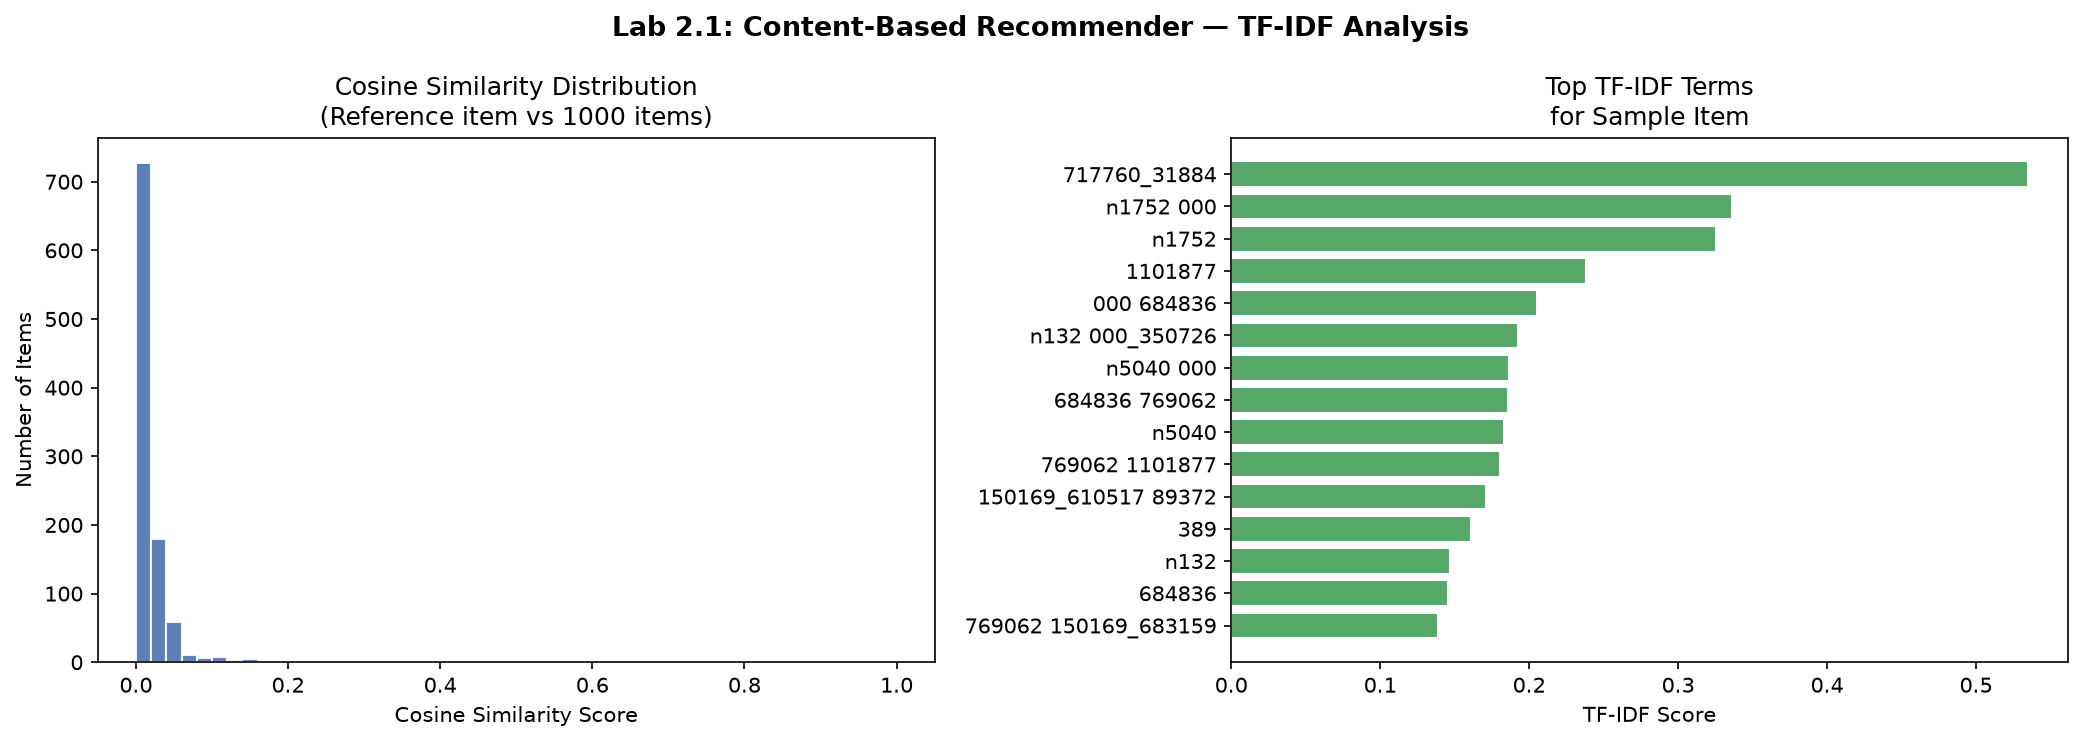
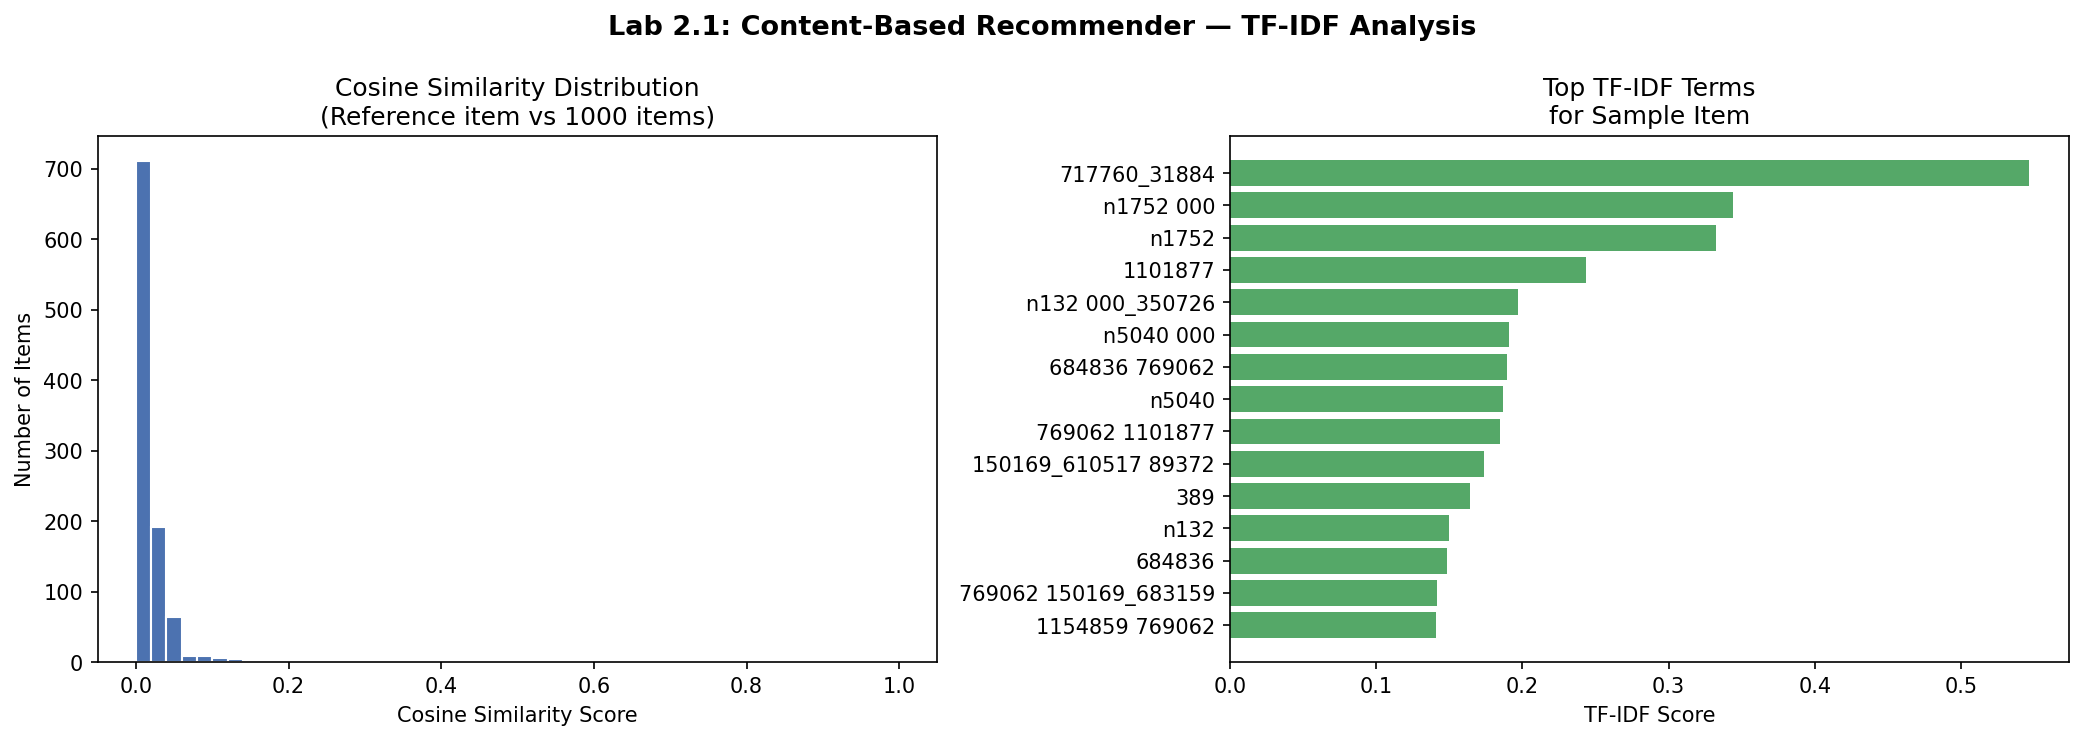
Lab 2.1: refresh script & output

diff --git a/content_based_recommender.py b/content_based_recommender.py
@@ -6,6 +6,8 @@
 # Saras AI Institute | Build Predictive Models & Modern Recommenders
 # =============================================================================
 
+import os
+import pickle
 import pandas as pd
 import numpy as np
 import matplotlib.pyplot as plt
@@ -14,6 +16,7 @@ from sklearn.metrics.pairwise import cosine_similarity
 from sklearn.preprocessing import normalize
 import scipy.sparse as sp
 import warnings
+
 warnings.filterwarnings('ignore')
 
 print("=" * 60)
@@ -33,9 +36,9 @@ props2 = pd.read_csv("data/item_properties_part2.csv")
 # TODO: Combine props1 and props2 vertically into a unified dataframe named 'props'
 props = pd.concat([props1, props2], ignore_index=True)
 
-print(f"    Total property records : {len(props) if props is not None else 0:,}")
-print(f"    Unique items           : {props['itemid'].nunique() if props is not None else 0:,}")
-print(f"    Columns                : {list(props.columns) if props is not None else []}")
+print(f"    Total property records : {len(props):,}")
+print(f"    Unique items           : {props['itemid'].nunique():,}")
+print(f"    Columns                : {list(props.columns)}")
 
 
 # ---------------------------------------------------------------------------
@@ -66,14 +69,14 @@ props_latest['value_token'] = (
 item_docs = (
     props_latest
     .groupby('itemid')['value_token']
-    .apply(lambda values: ' '.join(token for token in values if token.strip()))
+    .apply(lambda values: ' '.join(token for token in values if token))
     .reset_index(name='document')
 )
 
-# Remove items with an empty document, since TF-IDF cannot learn from them.
+# Remove any items which may have no usable property-value tokens
 item_docs = item_docs[item_docs['document'].str.strip() != ''].reset_index(drop=True)
 
-print(f"    Items with documents   : {len(item_docs) if item_docs is not None else 0:,}")
+print(f"    Items with documents   : {len(item_docs):,}")
 
 
 # ---------------------------------------------------------------------------
@@ -97,8 +100,8 @@ tfidf_matrix = vectorizer.fit_transform(item_docs['document'])
 # TODO: Extract the raw array of unique item IDs from item_docs['itemid'] for index-to-ID mappings
 item_ids = item_docs['itemid'].values
 
-print(f"    TF-IDF matrix shape    : {tfidf_matrix.shape if tfidf_matrix is not None else 'N/A'}")
-print(f"    Vocabulary size        : {len(vectorizer.vocabulary_):,} terms" if vectorizer is not None else "N/A")
+print(f"    TF-IDF matrix shape    : {tfidf_matrix.shape}")
+print(f"    Vocabulary size        : {len(vectorizer.vocabulary_):,} terms")
 
 
 # ---------------------------------------------------------------------------
@@ -111,9 +114,10 @@ def get_similar_items(item_id, tfidf_matrix, item_ids, top_k=10):
     Given an item_id, return the top_k most similar items based on TF-IDF cosine similarity.
     Returns a pandas DataFrame containing 'item_id' and 'similarity' columns.
     """
+
     # TODO: Verify if item_id exists in our catalog array (item_ids). If not, print warning and return empty DataFrame.
     if item_id not in item_ids:
-        print(f"    Warning: Item ID {item_id} is not available in the metadata catalog.")
+        print(f"    Warning: Item ID {item_id} was not found in the catalog.")
         return pd.DataFrame(columns=['item_id', 'similarity'])
 
     # TODO: Extract the exact row coordinate index matching the query item_id inside your item_ids list
@@ -144,8 +148,10 @@ def get_similar_items(item_id, tfidf_matrix, item_ids, top_k=10):
 # ---------------------------------------------------------------------------
 print("\n[5] Testing content-based recommender...")
 
-if item_ids is not None and tfidf_matrix is not None:
-    sample_item = item_ids[100]
+if len(item_ids) > 0 and tfidf_matrix is not None:
+    sample_index = min(100, len(item_ids) - 1)
+    sample_item = item_ids[sample_index]
+
     print(f"    Query item ID: {sample_item}")
 
     # TODO: Call your get_similar_items function to find the top 10 matches for sample_item
@@ -156,7 +162,7 @@ if item_ids is not None and tfidf_matrix is not None:
         top_k=10
     )
 
-    print(recommendations.to_string(index=False) if recommendations is not None else "    Not Implemented")
+    print(recommendations.to_string(index=False))
 
 
 # ---------------------------------------------------------------------------
@@ -168,14 +174,12 @@ events = pd.read_csv("data/events.csv")
 
 # TODO: Filter events down to 'transaction' occurrences only and pull out ['visitorid', 'itemid']
 purchases = (
-    events[events['event'] == 'transaction']
-    .sort_values('timestamp')
-    [['visitorid', 'itemid']]
+    events[events['event'] == 'transaction'][['visitorid', 'itemid', 'timestamp']]
+    .sort_values(['visitorid', 'timestamp'])
     .copy()
 )
 
-if purchases is not None:
-    purchases.columns = ['user_id', 'item_id']
+purchases.columns = ['user_id', 'item_id', 'timestamp']
 
 # TODO: Isolate sequential multi-purchase records by keeping users with 2 or more historical purchases
 multi_buyers = purchases[
@@ -186,7 +190,7 @@ multi_buyers = purchases[
 hits_at_10 = 0
 total_eval = 0
 
-if multi_buyers is not None:
+if len(multi_buyers) > 0:
     eval_users = multi_buyers['user_id'].unique()[:500]
 
     for user in eval_users:
@@ -194,6 +198,7 @@ if multi_buyers is not None:
 
         # Filter out user interactions that don't exist in our item metadata catalog boundaries
         catalog_items = [i for i in user_items if i in item_ids]
+
         if len(catalog_items) < 2:
             continue
 
@@ -237,6 +242,8 @@ cb_results = {
 # ---------------------------------------------------------------------------
 print("\n[7] Visualizing similarity distribution...")
 
+os.makedirs("output", exist_ok=True)
+
 # --- Plotting Baseline Profiles ---
 fig, axes = plt.subplots(1, 2, figsize=(14, 5))
 fig.suptitle(
@@ -245,23 +252,23 @@ fig.suptitle(
     fontweight='bold'
 )
 
-# TODO: Render a histogram on axes[0] illustrating raw cosine similarities calculated from an item against the catalog array
-# Hint: Use axes[0].hist(all_sims, bins=50)
-reference_item = item_ids[100]
-reference_idx = np.where(item_ids == reference_item)[0][0]
+sample_index = min(100, len(item_ids) - 1)
+sample_vector = tfidf_matrix[sample_index]
 
-comparison_size = min(1000, len(item_ids))
+# Limit to 1,000 catalog items for the distribution chart
+comparison_limit = min(1000, tfidf_matrix.shape[0])
 all_sims = cosine_similarity(
-    tfidf_matrix[reference_idx],
-    tfidf_matrix[:comparison_size]
+    sample_vector,
+    tfidf_matrix[:comparison_limit]
 ).flatten()
 
+# TODO: Render a histogram on axes[0] illustrating raw cosine similarities calculated from an item against the catalog array
+# Hint: Use axes[0].hist(all_sims, bins=50)
 axes[0].hist(
     all_sims,
     bins=50,
     color='#4C72B0',
-    edgecolor='white',
-    alpha=0.9
+    edgecolor='white'
 )
 
 axes[0].set_title("Cosine Similarity Distribution\n(Reference item vs 1000 items)")
@@ -271,20 +278,19 @@ axes[0].set_ylabel("Number of Items")
 # --- Plotting Document Feature Weights ---
 # TODO: Calculate top terms for a sample document by sorting vocabulary feature weights extracted from tfidf_matrix rows
 # Plot top 15 weights as a horizontal bar plot on axes[1] using ax.barh()
-feature_names = vectorizer.get_feature_names_out()
-sample_vector = tfidf_matrix[reference_idx].toarray().flatten()
+feature_names = np.array(vectorizer.get_feature_names_out())
+sample_weights = tfidf_matrix[sample_index].toarray().flatten()
 
-top_term_indices = sample_vector.argsort()[::-1][:15]
-top_term_indices = top_term_indices[sample_vector[top_term_indices] > 0]
+top_term_indices = np.argsort(sample_weights)[::-1][:15]
+top_term_indices = top_term_indices[sample_weights[top_term_indices] > 0]
 
 top_terms = feature_names[top_term_indices]
-top_weights = sample_vector[top_term_indices]
+top_weights = sample_weights[top_term_indices]
 
 axes[1].barh(
     top_terms[::-1],
     top_weights[::-1],
-    color='#55A868',
-    edgecolor='white'
+    color='#55A868'
 )
 
 axes[1].set_title("Top TF-IDF Terms\nfor Sample Item")
